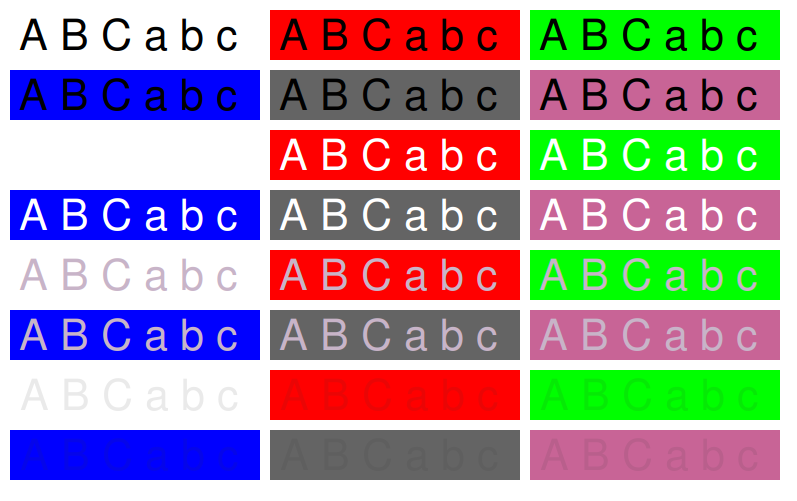
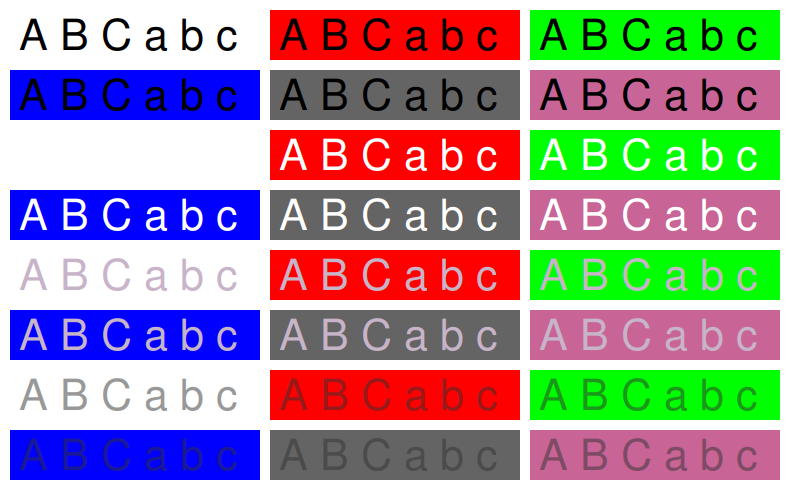
Fix alpha fading on subpixel text. Allow subpx with alpha.
Fixes #1765.
Fixes #1881.

Changed region(s): [[0.0, 0.0, 1.0, 0.9697], [0.0303, 0.0303, 0.3034, 0.1212]]

diff --git a/src/webrender/src/frame_builder.rs b/src/webrender/src/frame_builder.rs
@@ -1162,7 +1162,7 @@ impl FrameBuilder {
             font.variations.clone(),
             font.synthetic_italics,
         );
-        let mut prim = TextRunPrimitiveCpu {
+        let prim = TextRunPrimitiveCpu {
             font: prim_font,
             glyph_range,
             glyph_count,
@@ -1187,12 +1187,6 @@ impl FrameBuilder {
             if shadow.blur_radius == 0.0 {
                 let mut text_prim = prim.clone();
                 text_prim.font.color = shadow.color.into();
-                // If we have translucent text, we need to ensure it won't go
-                // through the subpixel blend mode, which doesn't work with
-                // traditional alpha blending.
-                if shadow.color.a != 1.0 {
-                    text_prim.font.render_mode = text_prim.font.render_mode.limit_by(FontRenderMode::Alpha);
-                }
                 text_prim.offset += shadow.offset;
                 fast_shadow_prims.push((idx, text_prim));
             }
@@ -1209,12 +1203,6 @@ impl FrameBuilder {
                 PrimitiveContainer::TextRun(text_prim),
             );
             self.shadow_prim_stack[idx].1.push((prim_index, clip_and_scroll));
-        }
-
-        // We defer this until after fast-shadows so that shadows of transparent text
-        // get subpixel-aa
-        if color.a != 1.0 {
-            prim.font.render_mode = prim.font.render_mode.limit_by(FontRenderMode::Alpha);
         }
 
         // Create (and add to primitive store) the primitive that will be
